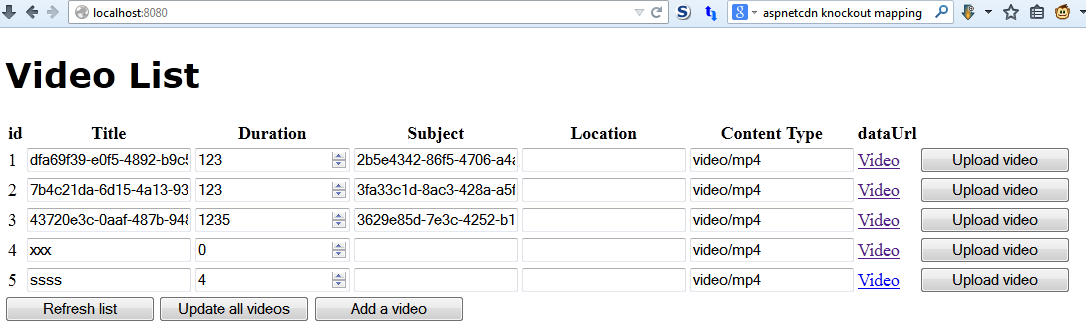
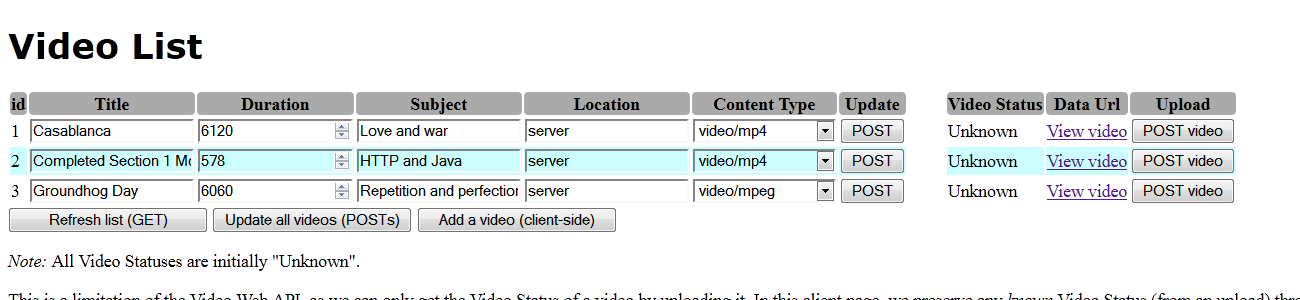
Added preservation of video stuses, if known, text and copyright notice, and minor formatting changes.

diff --git a/assignments/Asgn1-VideoUp/static/index.html b/assignments/Asgn1-VideoUp/static/index.html
@@ -24,7 +24,7 @@ limitations under the License.
 <meta name="dcterms.rightsHolder" content="TP Diffenbach"/>
 <meta name="dcterms.dateCopyrighted" content="2014"/>
 <meta http-equiv="Content-Type" content="text/html;charset=utf-8" />
-<title>Sample Video Client</title>
+<title>Video Client</title>
 <style> 
 button { width: 200px;}
 th { background-color: #AAAAAA; border-radius:4px;}
@@ -33,7 +33,7 @@ td > button { width: 100%;}
 h3 { font-family: Verdana, Geneva, sans-serif; margin-top:0px;}
 h1 { font-family: Verdana, Geneva, sans-serif; }
 #modal {
-	position:absolute;
+	position:fixed;
 	top: 10%;
 	left:25%;
 	width: 50%;
@@ -161,7 +161,15 @@ function ViewModel() {
 	
 	self.refreshVideos = function() {
 		$.getJSON("/video", function(data) {
-			 ko.mapping.fromJS(data, self.videos);
+			var map = {};
+			ko.utils.arrayForEach( self.videos(), function(v) { 
+				map[v.id()] = v.status();
+			});
+			ko.mapping.fromJS(data, self.videos);
+			ko.utils.arrayForEach( self.videos(), function(v) { 
+				var s = map[v.id()]; 
+				if(s) v.status(s);
+			});
 		}) .fail( function(d, textStatus, error) {
 			console.error("getJSON failed, status: " + textStatus + ", error: "+error)
 		});
@@ -176,7 +184,9 @@ function ViewModel() {
 			contentType: "application/json; charset=utf-8",
 			dataType: "json",
 			success: function(data){ 
+				var uploadStatus = video.status();
 				ko.mapping.fromJS(data, video); 
+				video.status(uploadStatus);
 			},
 			failure: function(errMsg) {
 				alert(errMsg);
@@ -241,12 +251,12 @@ ko.applyBindings(new ViewModel());
 <body>
 <div id="display">
 <h1>Video List</h1>
-<h2 data-bind="visible: videos().length == 0">No Videos have been uploaded</h2>
-<table data-bind="visible: videos().length > 0">
+<h2 data-bind="visible: videos().length == 0">No Videos have been uploaded (was the server stopped?)</h2>
+<table data-bind="visible: videos().length != 0">
     <thead><tr>
         <th>id</th><th>Title</th><th>Duration</th><th>Subject</th><th>Location</th>
-				<th>Content Type</th><th>Update</th>><th class="empty"></th>
-		 <th>Video Status</th><th>dataUrl</th><th>Upload</th>
+				<th>Content Type</th><th>Update</th><th class="empty"></th>
+		 <th>Video Status</th><th>Data Url</th><th>Upload</th>
     </tr></thead>
     <tbody data-bind="foreach: videos">
     <tr data-bind="css: { 'updating': updating, even: $index() % 2 == 0}">
@@ -265,7 +275,7 @@ ko.applyBindings(new ViewModel());
 		<td class="empty"></td>
 		<td class="d" data-bind="text: status().state" title="Status of uploaded video"></td>
 		<td class="d" data-bind="visible: dataUrl != null">
-			<a target="_blank" data-bind="attr: { href: dataUrl, title: dataUrl}">View Video</a>
+			<a target="_blank" data-bind="attr: { href: dataUrl, title: dataUrl}">View video</a>
 		</td>
 		<td class="d" data-bind="visible: id() != null">
 			<button data-bind="click: $root.showUploadForm, attr: {title:'POSTs video data to /video/' + id() + '/data'}">
@@ -285,6 +295,18 @@ Update all videos (POSTs)
 <button data-bind="click: addVideo" title="Add a new, empty, row to the list in the browser. No server call is made.">
 Add a video (client-side)
 </button> 
+<div>
+	<p><em>Note:</em> All Video Statuses are initially "Unknown".</p>
+	<p>This is a limitation of the Video Web API, as we can only get the Video Status of a video by uploading it.
+	In this client page, we preserve any <em>known</em> Video Status (from an upload) through metadata updates (POSTs) and list refreshes (GETs). Refreshing the page of course clears all data, as this is a single-page client written in javascript and HTML.</p>
+	
+	<p>This client was written as to test and exercise assignment 1 of the Coursera/Vanderbilt University Online Course 
+	<a href="https://class.coursera.org/mobilecloud-001/">"Programming Cloud Services for Android Handheld Systems"</a>.</p> 
+	
+	<p>This HMTL and javascript client program is copyright &copy; 2014 TP Diffenbach, and licensed under the Apache License: <a href="http://www.apache.org/licenses/LICENSE-2.0">http://www.apache.org/licenses/LICENSE-2.0</a>. Copies (and possibly newer versions) can be obtained from, and bugs reported to, <a href="https://github.com/tpdi/mobilecloud14">https://github.com/tpdi/mobilecloud14</a>.</p>
+	
+	<p>Good luck, and I hope this helps you in the course.</p
+</div>
 </div>
 <div id="overlay" class="overlay" data-bind="visible: selectedVideo() != null"></div>
 <div id="modal" class="modal" data-bind="visible: selectedVideo() != null">
